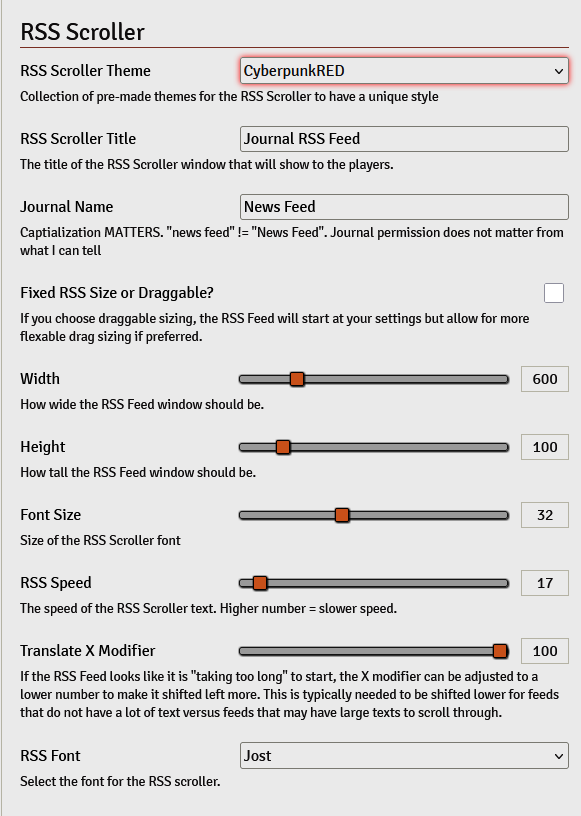
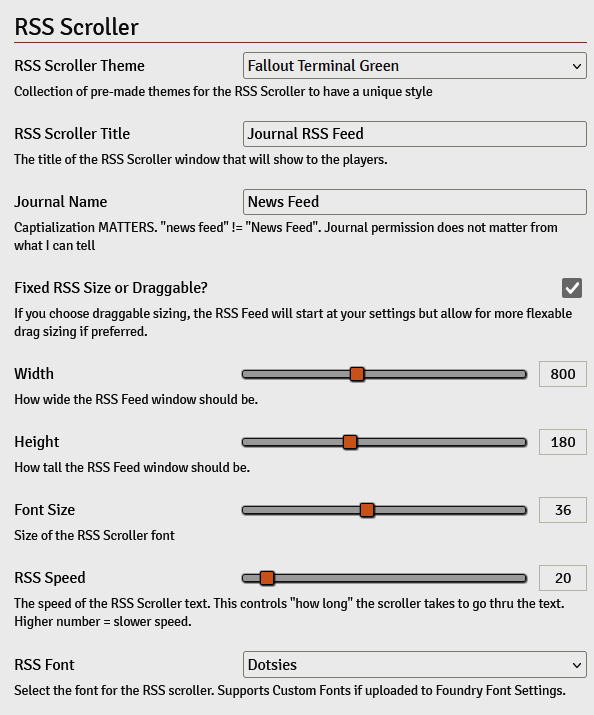
Added more example images

Changed region(s): [[0.0, 0.0, 0.9914, 0.6769], [0.0, 0.6769, 0.9914, 0.9846]]

diff --git a/scripts/rss-scroller.js b/scripts/rss-scroller.js
@@ -74,6 +74,7 @@ function updateRSSScrollerSpeed(rssSpeed) {
     document.documentElement?.style.setProperty('--rss-speed', `${rssSpeed}s`);
 };
 function applyRSSTheme(theme) {
+    game.settings.set(moduleName, 'rssTheme', theme);
     document.documentElement.setAttribute('data-rss-theme', theme);
 };
 function updateRSSFont(selectedFont) {
@@ -112,20 +113,6 @@ Hooks.once("init", () => {
             root.style.setProperty('--rss-title', `${value}`);
         },
         requiresReload: true
-    });
-    game.settings.register(moduleName, 'rssFont', {
-        name: "RSS Font",
-        hint: "Select the font for the RSS scroller.",
-        scope: "client",
-        config: true,
-        type: String,
-        choices: Object.fromEntries(Object.keys(CONFIG.fontDefinitions).map(f => [f, f])),
-        default: "Orbitron",
-        onChange: (value) => {
-            updateRSSFont(value);
-            game.settings.set(moduleName, 'rssFont', value);
-        },
-        requiresReload: false
     });
     game.settings.register(moduleName, 'journalName', {
         name: 'Journal Name',
@@ -217,7 +204,7 @@ Hooks.once("init", () => {
             max: 300,
             step: 1
         },
-        default: 100,
+        default: 20,
         onChange: (value) => {
             let root = document.querySelector(':root');
             root.style.setProperty('--rss-speed', `${value}s`);
@@ -230,6 +217,24 @@ Hooks.once("init", () => {
 
 // Initialize the scroller when Foundry is ready
 Hooks.once("ready", () => {
+
+    // This has to load later since Foundry loads fonts at a different time that is past `init` :(
+    game.settings.register(moduleName, 'rssFont', {
+        name: "RSS Font",
+        hint: "Select the font for the RSS scroller. Supports Custom Fonts if uploaded to Foundry Font Settings.",
+        scope: "client",
+        config: true,
+        type: String,
+        // choices: Object.fromEntries(Object.keys(CONFIG.fontDefinitions).map(f => [f, f])), // Default foundry fonts that are loaded
+        choices: Object.fromEntries(Object.keys(FontConfig.getAvailableFontChoices()).map(f => [f, f])), // Get all fonts that are available for edit in Foundry, including custom upload
+        default: "Orbitron",
+        onChange: (value) => {
+            updateRSSFont(value);
+            game.settings.set(moduleName, 'rssFont', value);
+        },
+        requiresReload: false
+    });
+
 
     // Added these all down here since this is how I could get the settings to be 'retained' upon reloading. I still do not understand it.
     applyRSSTheme(game.settings.get(moduleName, 'rssTheme'));
